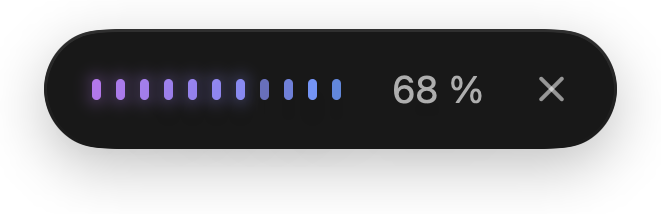
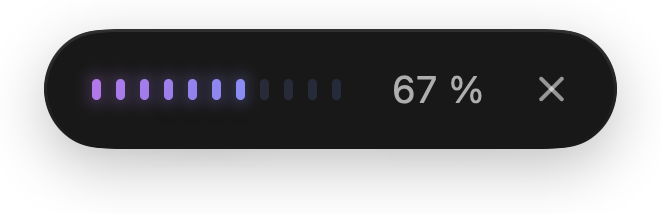
Accept video files, clearer file progress figure, speed measured on M1
- The file dialog also offers films; AVAudioFile reads their sound track.
  Menu item and texts in all languages now say audio or video file.
- The file pill figure is rendered at 67 % at a moment when the open bars
  rest, so the filled left part reads as progress.
- Readme: formats, video files, speed and idle figures measured on an M1
  with 3 and 90 second dictations.

Changed region(s): [[0.3933, 0.3645, 0.5144, 0.4766], [0.6051, 0.3364, 0.6657, 0.5047]]

diff --git a/Sources/Pegel/UI/IconExport.swift b/Sources/Pegel/UI/IconExport.swift
@@ -223,10 +223,12 @@ enum ReadmeFigure {
                 Pill(session: session, style: .levels, showsTime: false, time: time),
                 named: name, to: directory)
         }
+        // At 1.0 s every open bar rests at 15 % of the sweep, so the filled left part reads
+        // as progress; earlier the open bars were mid-sweep and looked filled too.
         try write(
             Pill(
-                session: .transcribing, style: .levels, showsTime: false, time: 0.45,
-                fileProgress: 0.68),
+                session: .transcribing, style: .levels, showsTime: false, time: 1.0,
+                fileProgress: 0.67),
             named: "pill-file", to: directory)
 
         for style in WaveformStyle.allCases {

diff --git a/Sources/Pegel/Core/RecordingController.swift b/Sources/Pegel/Core/RecordingController.swift
@@ -103,7 +103,8 @@ final class RecordingController {
         guard case .ready = appState.session else { return }
 
         let panel = NSOpenPanel()
-        panel.allowedContentTypes = [.audio]
+        // Films too: AVAudioFile reads their sound track, the picture is never decoded.
+        panel.allowedContentTypes = [.audio, .movie]
         panel.allowsMultipleSelection = false
         panel.canChooseDirectories = false
         panel.message = L("file.panel.message")

diff --git a/README.md b/README.md
@@ -20,9 +20,10 @@
 
 ## What it does
 
-Pegel does one thing. You press a shortcut, you speak, and the words appear at the
-cursor in whatever app you are already in. Nothing to manage, nothing to sign into, and
-the audio never leaves the machine.
+Pegel does one thing: it turns speech into text. You press a shortcut, you speak, and
+the words appear at the cursor in whatever app you are already in. A recording or a
+video you already have goes through the same model and lands on the clipboard. Nothing
+to manage, nothing to sign into, and the audio never leaves the machine.
 
 ## Why it is simple
 
@@ -116,7 +117,9 @@ level, so you can see that sound is arriving. You can drag it anywhere.
 | **Error** | flashes twice, then stands | <img src="assets/pill-error.png" width="145" alt=""> |
 
 When there is already text in front of the cursor, Pegel adds a space by itself.
-*Transcribe Audio File…* in the menu puts the text of an audio file on the clipboard.
+*Transcribe Audio or Video File…* in the menu puts the text of a file on the clipboard.
+It reads M4A, MP3, WAV, AIFF, CAF, FLAC and AAC, the sound of MP4 and MOV videos, and
+from macOS 15.4 also Ogg and Opus.
 
 The interface is in English and German. French, Spanish and Italian are
 machine-translated; mistakes can be reported through the
@@ -125,15 +128,15 @@ machine-translated; mistakes can be reported through the
 ## How fast
 
 Pegel transcribes after you stop speaking rather than while you speak, which avoids the
-visible self corrections of streaming recognition. Measured on a 2021 MacBook Pro with
-M1 Pro and 16 GB:
+visible self corrections of streaming recognition. Measured on a 2020 MacBook Pro with
+M1 and 16 GB, the first generation of Apple silicon:
 
 | Dictation | Time until the text appears |
 |---|---|
-| 3 seconds | 0.17 s |
-| 71 seconds | 0.72 s |
+| 3 seconds | 0.13 s |
+| 90 seconds | 1.27 s |
 
-Idle, Pegel uses 0 % CPU and about 36 MB of memory.
+Idle, Pegel uses 0 % CPU and about 68 MB of memory.
 
 ## Privacy
 
